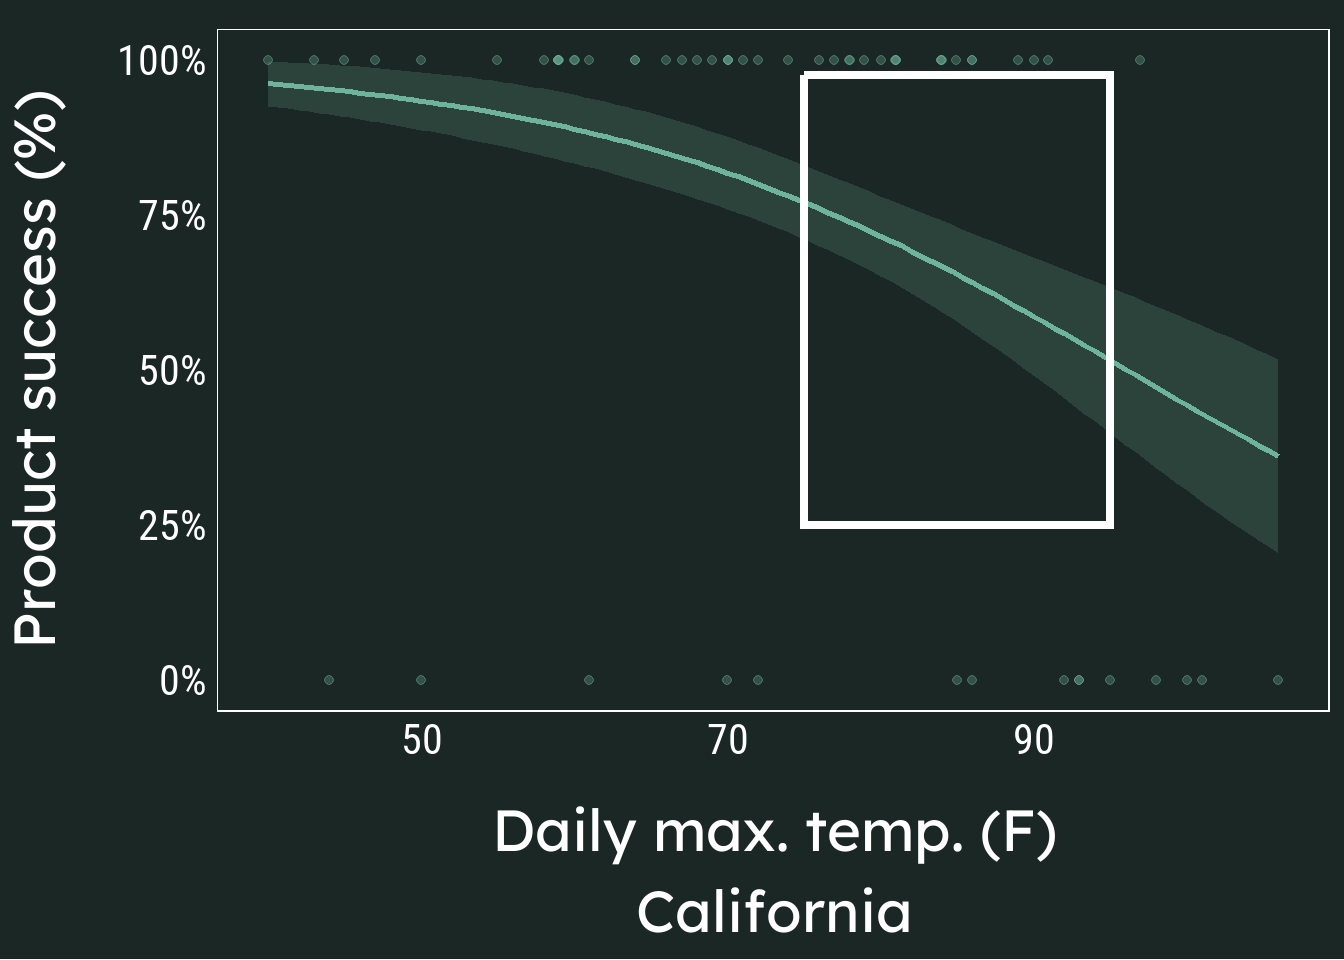
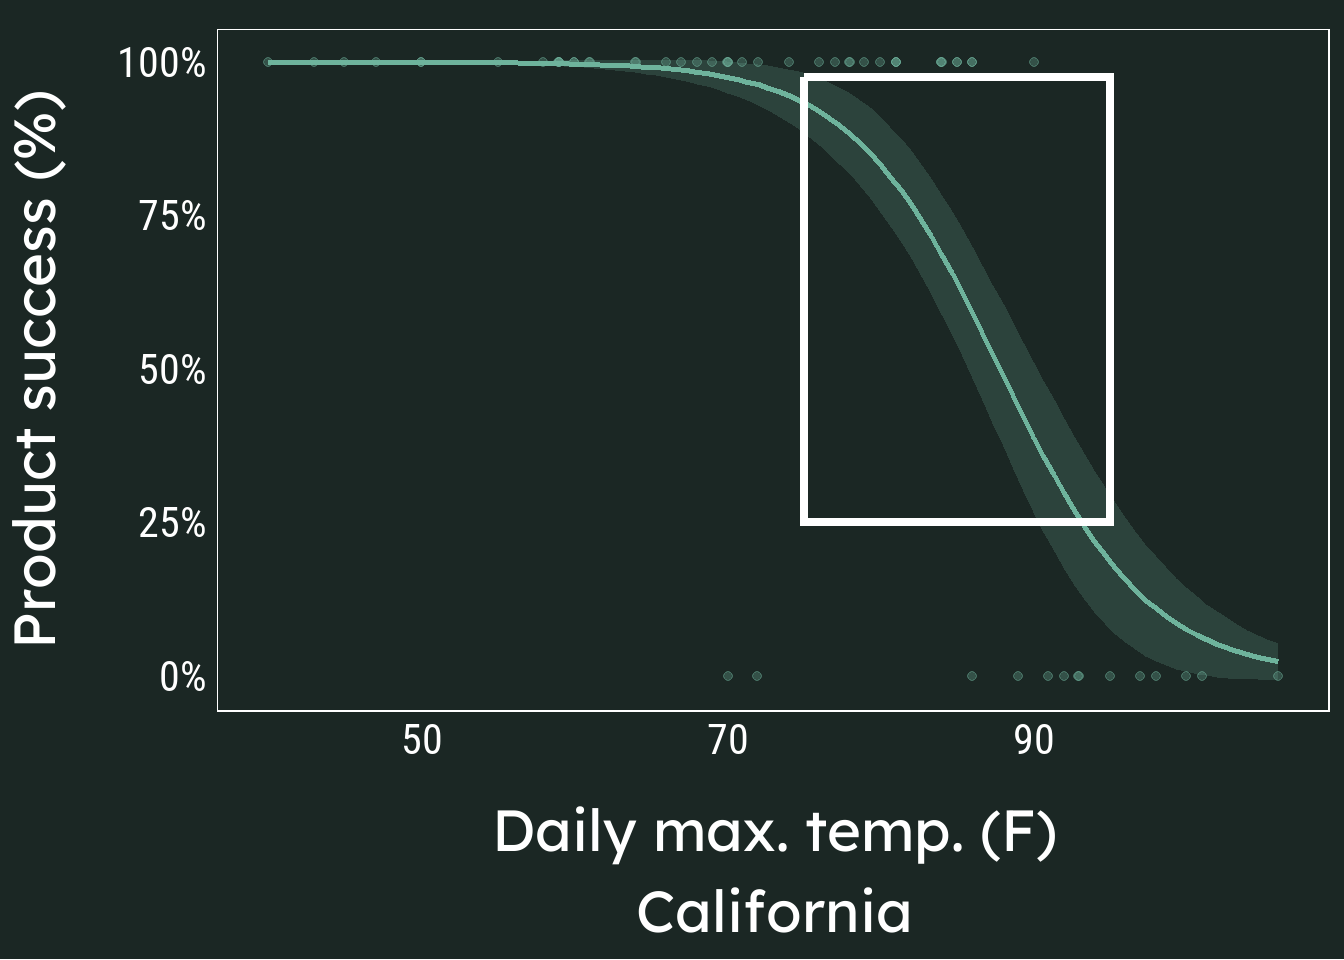
Try navbar

diff --git a/acc-page/content/project/two/index.md b/acc-page/content/project/two/index.md
@@ -23,8 +23,6 @@ reading_time: false
 
 
 
-<img src="featured.png" style="border-radius: 5%;" />
-
 <style>
 p.caption {
   font-size: 0.8em;
@@ -50,9 +48,7 @@ One such tool is the binomial GLM, which used with yes/no data like our client p
 
 ## A case study: leveraging simple yes/no surveys
 
-Placeholder text
-
-A client has provided us with 49 growers reporting success or failure of a product. We’ve enriched the survey with additional environmental data performed a statistical analysis. It looks like relatively cold temperatures negatively impact product performance.
+A client has provided us with 104 growers reporting success or failure of a product. We’ve enriched the survey with additional environmental data performed a statistical analysis. It looks like relatively cold temperatures negatively impact product performance.
 
 <div class="figure">
 <img src="{{< blogdown/postref >}}index_files/figure-html/bar-1.png" alt="Simple bar chart showing the overall results from end-user survey on agrochemical success following product application. A plot like this provides a useful summary but loses valuable detail." width="672" />
@@ -64,6 +60,8 @@ But how can we know for sure? And when exactly is it too hot and when is it ok t
 ## Solving the problem with binomial GLMs
 
 The simplest way to interpret these models is that a steep, S-shaped curve is a strong correlation between product performance and temperature. A flatter curve is a weak correlation.
+
+#### Results are clear on the West Coast
 
 In California, the results are very clear. The client can advise their end-users to save their herbicide at high temperatures as the risk-adjusted cost of failing to spray is very low. We’re very confident it would just be a waste.
 
@@ -81,12 +79,16 @@ Reported product failures show up along the bottom of the plot (0%) and successe
 
 This area is where we figure out what the thresholds are. The product begins to fail at at low rates just below 80F, when the shaded confidence ribbon drops below 100%. By 88F the success rate dropped below the client's key threshold of 75% and beyond 103F the product no longer succeeded at all.
 
+#### More  questions from the East Coast
+
 On the other hand, we’re much less confident about how temperature impacts the product for growers in Florida. Something else is causing product failure in this state.
 
 <div class="figure">
 <img src="{{< blogdown/postref >}}index_files/figure-html/fl-1.png" alt="Probability of agrochemical product success in response to daily maximum temperatures on farms in Florida only." width="672" />
 <p class="caption">Figure 4: Probability of agrochemical product success in response to daily maximum temperatures on farms in Florida only.</p>
 </div>
+
+#### Working with uncertainty
 
 With a confidence (measured with p-value) of 0.82, there’s a 82% risk that higher temperatures *don’t* affect the product. In other words, advising end-users to save their herbicide at high temperatures might lead to pest damage that could’ve been avoided.
 
@@ -96,9 +98,9 @@ This kind of uncertainty is ok – uncertainty is critical to know and allows cl
 
 Here we would suggest that our client provide confident advice to end-users in states like Nebraska with clear patterns in the data. Above 88F, don’t waste the product. Less accidental waste means more satisfied customers.
 
-For end-users in Florida, their advice should be transparent but qualified. They wouldn’t want to bet the farm on it (no pun intended). A result like this justifies a closer look for the product team or maybe warning salespeople that there is a small risk of high temperatures messing up the product.
-
 <img src="thinking.jpg" style="border-radius: 5%;" />
+
+For end-users in Florida, their advice should be transparent but qualified. They wouldn’t want to bet the farm on it (no pun intended). A result like this justifies a closer look for the product team or maybe warning salespeople that there is a small risk of high temperatures messing up the product.
 
 Our client wanted to know exactly when their Pennsylvanian customers should spray, so we dug even deeper and found the answer in cloud cover.
 
